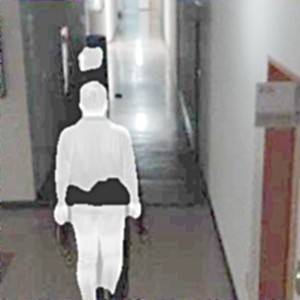
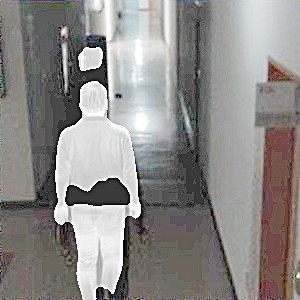
update

diff --git a/VB_and_IF_Fussion_no_grayscale.m b/VB_and_IF_Fussion_no_grayscale.m
@@ -3,8 +3,8 @@
 clc; clear all; close all;
 
 % Load infrared and visible images
-IR = imread("IR_meting012-1200_g.bmp");
-VIS = imread("VIS_meting012-1200_r.bmp");
+IR = imread("manWalkIR.jpg");
+VIS = imread("manWalkVB.jpg");
 
 % Display original IR image
 figure(1)
@@ -114,13 +114,13 @@ imshow(image_bright);
 title('Brighten');
 
 % Denoise
-image_denoise = imgaussfilt(image_bright, 1);
-figure(9)
-imshow(image_denoise);
-title('Denoise');
+% image_denoise = imgaussfilt(image_bright, 1);
+% figure(9)
+% imshow(image_denoise);
+% title('Denoise');
 
 % Sharpen
-image_sharp = imsharpen(image_denoise, 'Radius', 2, 'Amount', 1);
+image_sharp = imsharpen(image_bright, 'Radius', 2, 'Amount', 1);
 figure(10)
 imshow(image_sharp);
 title('Sharp');

diff --git a/Entropy.m b/Entropy.m
@@ -1,0 +1,26 @@
+% script to compute image entropy (EN)
+
+% Step 1: Read the image
+img = imread("final_result.jpg");  % Replace with your image file
+
+% Step 2: Convert to grayscale if it's RGB
+if size(img, 3) == 3
+    img = rgb2gray(img);
+end
+
+% Step 3: Normalize image to [0, 1]
+img = double(img) / 255;
+
+% Step 4: Compute histogram
+numBins = 256;
+counts = imhist(img, numBins);
+probs = counts / sum(counts);
+
+% Step 5: Remove zero entries to avoid log(0)
+probs(probs == 0) = [];
+
+% Step 6: Compute entropy
+entropyValue = -sum(probs .* log2(probs));
+
+% Step 7: Display result
+fprintf('Entropy of the image: %.4f\n', entropyValue);
